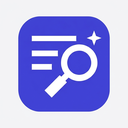
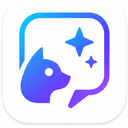
feat: 优化icon

diff --git a/content.css b/content.css
@@ -7,8 +7,8 @@
   display: inline-flex !important;
   align-items: center !important;
   justify-content: center !important;
-  gap: 6px !important;
-  padding: 5px 12px !important;
+  gap: 0 !important;
+  padding: 8px !important;
   
   /* Reset styles to isolate from host website's pollution */
   margin: 0 !important;
@@ -21,19 +21,16 @@
   cursor: pointer !important;
   user-select: none !important;
   
-  /* Glassmorphism Dark Theme Styling */
-  color: #f8fafc !important; /* slate-50 */
-  background: rgba(15, 23, 42, 0.85) !important; /* slate-900 with opacity */
-  backdrop-filter: blur(12px) !important;
-  -webkit-backdrop-filter: blur(12px) !important;
-  border: 1px solid rgba(255, 255, 255, 0.12) !important;
-  border-radius: 9999px !important; /* Pill shape */
+  /* Clean White Theme Styling */
+  color: #4f46e5 !important; /* indigo-600 */
+  background: #ffffff !important;
+  border: 1px solid rgba(79, 70, 229, 0.15) !important;
+  border-radius: 10px !important;
   
-  /* Box Shadow & Glow */
-  box-shadow: 
-    0 4px 16px -2px rgba(15, 23, 42, 0.3),
-    0 0 0 1px rgba(99, 102, 241, 0.1), /* Indigo accent shadow */
-    0 0 12px 1px rgba(99, 102, 241, 0.15) !important;
+  /* Box Shadow */
+  box-shadow:
+    0 2px 8px rgba(0, 0, 0, 0.08),
+    0 0 0 1px rgba(79, 70, 229, 0.06) !important;
   
   /* Smooth transitions */
   transition: 
@@ -48,37 +45,36 @@
 
 /* Hover effects */
 #contextlens-floating-btn:hover {
-  background: rgba(30, 41, 59, 0.95) !important; /* slate-800 with opacity */
-  border-color: rgba(99, 102, 241, 0.6) !important; /* Glow border */
-  color: #a5b4fc !important; /* indigo-300 */
-  transform: scale(1.06) translateY(-1px) !important;
-  box-shadow: 
-    0 6px 20px -2px rgba(15, 23, 42, 0.4),
-    0 0 0 1px rgba(99, 102, 241, 0.2),
-    0 0 16px 3px rgba(99, 102, 241, 0.3) !important; /* Stronger glow on hover */
+  background: #ffffff !important;
+  border-color: rgba(79, 70, 229, 0.3) !important;
+  color: #4338ca !important; /* indigo-700 */
+  transform: scale(1.08) translateY(-1px) !important;
+  box-shadow:
+    0 4px 12px rgba(79, 70, 229, 0.15),
+    0 0 0 1px rgba(79, 70, 229, 0.1) !important;
 }
 
 /* Clicking effect */
 #contextlens-floating-btn:active,
 #contextlens-floating-btn.contextlens-clicked {
-  transform: scale(0.95) translateY(0) !important;
-  background: rgba(15, 23, 42, 0.95) !important;
-  box-shadow: 0 2px 8px -2px rgba(15, 23, 42, 0.3) !important;
+  transform: scale(0.92) translateY(0) !important;
+  background: #ffffff !important;
+  box-shadow: 0 1px 4px rgba(0, 0, 0, 0.06) !important;
 }
 
 /* Icon style adjustments */
-#contextlens-floating-btn svg {
+#contextlens-floating-btn svg,
+#contextlens-floating-btn img {
   display: block !important;
   flex-shrink: 0 !important;
   margin: 0 !important;
   padding: 0 !important;
-  color: #818cf8 !important; /* Indigo icon default */
-  transition: color 0.2s ease !important;
+  transition: transform 0.2s ease !important;
 }
 
-#contextlens-floating-btn:hover svg {
-  color: #6366f1 !important; /* Vibrant indigo on hover */
-  animation: contextlens-spin 4s linear infinite;
+#contextlens-floating-btn:hover svg,
+#contextlens-floating-btn:hover img {
+  transform: scale(1.1) !important;
 }
 
 /* Hidden state with transitions */

diff --git a/content.js b/content.js
@@ -292,22 +292,7 @@ function createFloatingButton() {
   
   // High-tech lens SVG icon
   floatBtn.innerHTML = `
-    <svg width="18" height="18" viewBox="0 0 24 24" fill="none" xmlns="http://www.w3.org/2000/svg">
-      <!-- Context Text Lines (High-tech scanning target) -->
-      <path d="M4 6h10" stroke="currentColor" stroke-width="2" stroke-linecap="round" opacity="0.4"/>
-      <path d="M4 11h6" stroke="currentColor" stroke-width="2" stroke-linecap="round" opacity="0.4"/>
-      <path d="M4 16h10" stroke="currentColor" stroke-width="2" stroke-linecap="round" opacity="0.4"/>
-      <path d="M4 21h6" stroke="currentColor" stroke-width="2" stroke-linecap="round" opacity="0.4"/>
-      
-      <!-- AI Lens (Concentric scanning circles and handle) -->
-      <circle cx="13" cy="14" r="5" stroke="currentColor" stroke-width="2"/>
-      <circle cx="13" cy="14" r="2" fill="currentColor" opacity="0.3"/>
-      <path d="M16.5 17.5l3.5 3.5" stroke="currentColor" stroke-width="2" stroke-linecap="round"/>
-      
-      <!-- AI Sparkle Star -->
-      <path d="M19 2c0 1.6 1.4 3 3 3c-1.6 0-3 1.4-3 3c0-1.6-1.4-3-3-3c1.6 0 3-1.4 3-3z" fill="currentColor"/>
-    </svg>
-    <span>探索</span>
+    <img src="${chrome.runtime.getURL('icons/icon-floating.png')}" style="width: 20px; height: 20px; pointer-events: none; border-radius: 4px;" alt="ContextLens" />
   `;
 
   floatBtn.addEventListener("click", handleButtonClick);

diff --git a/sidepanel/sidepanel.html b/sidepanel/sidepanel.html
@@ -11,21 +11,6 @@
     <!-- Header -->
     <header class="app-header">
       <div class="logo-area">
-        <svg class="logo-icon" width="20" height="20" viewBox="0 0 24 24" fill="none" xmlns="http://www.w3.org/2000/svg">
-          <!-- Context Text Lines -->
-          <path d="M4 6h10" stroke="currentColor" stroke-width="2" stroke-linecap="round" opacity="0.4"/>
-          <path d="M4 11h6" stroke="currentColor" stroke-width="2" stroke-linecap="round" opacity="0.4"/>
-          <path d="M4 16h10" stroke="currentColor" stroke-width="2" stroke-linecap="round" opacity="0.4"/>
-          <path d="M4 21h6" stroke="currentColor" stroke-width="2" stroke-linecap="round" opacity="0.4"/>
-          
-          <!-- AI Lens -->
-          <circle cx="13" cy="14" r="5" stroke="currentColor" stroke-width="2"/>
-          <circle cx="13" cy="14" r="2" fill="currentColor" class="pulsing-core" opacity="0.4"/>
-          <path d="M16.5 17.5l3.5 3.5" stroke="currentColor" stroke-width="2" stroke-linecap="round"/>
-          
-          <!-- AI Sparkle Star -->
-          <path d="M19 2c0 1.6 1.4 3 3 3c-1.6 0-3 1.4-3 3c0-1.6-1.4-3-3-3c1.6 0 3-1.4 3-3z" fill="currentColor"/>
-        </svg>
         <span class="logo-text">Context<span class="glow-accent">Lens</span></span>
       </div>
       <button id="settings-toggle" class="header-btn" title="AI 服务设置">

diff --git a/sidepanel/sidepanel.js b/sidepanel/sidepanel.js
@@ -2111,6 +2111,9 @@ async function triggerAIStreamResponse(promptText, messageTabId) {
                 if (!activeBubble) activeBubble = bubbleContent;
                 if (activeBubble) {
                   activeBubble.innerHTML = formatMarkdown(streamedText);
+                  activeBubble.querySelectorAll(".think-block[open] .think-content").forEach(el => {
+                    el.scrollTop = el.scrollHeight;
+                  });
                 }
               }
             }
@@ -2629,6 +2632,13 @@ function renderAssistantMessage(bubbleEl, text, systemLogsText, isComplete, agen
   // Mark the bubble as agent-layout so CSS strips the default bubble background
   bubbleEl.classList.add("agent-bubble");
   bubbleEl.innerHTML = html;
+
+  // Auto-scroll internal scrollable containers to bottom
+  const logBody = bubbleEl.querySelector(".agent-log-body");
+  if (logBody) logBody.scrollTop = logBody.scrollHeight;
+  bubbleEl.querySelectorAll(".think-block[open] .think-content").forEach(el => {
+    el.scrollTop = el.scrollHeight;
+  });
 
   // Bind toggle for execution log card
   const headerEl = bubbleEl.querySelector(".agent-status-header");

diff --git a/sidepanel/sidepanel.css b/sidepanel/sidepanel.css
@@ -73,15 +73,6 @@ body.dark-theme {
   color: var(--text-primary);
 }
 
-.logo-icon {
-  color: var(--accent-indigo);
-}
-
-.logo-icon .pulsing-core {
-  animation: pulse-core 2s ease-in-out infinite;
-  color: var(--accent-cyan);
-}
-
 .logo-text {
   font-family: var(--font-display);
   font-size: 18px;
@@ -822,6 +813,8 @@ body.dark-theme {
   border-top: 1px solid rgba(99, 102, 241, 0.1);
   white-space: pre-wrap;
   word-break: break-word;
+  max-height: 300px;
+  overflow-y: auto;
 }
 
 .message-sender {

diff --git a/process_icons2.py b/process_icons2.py
@@ -1,0 +1,132 @@
+#!/usr/bin/env python3
+"""
+Split the combined icon image into:
+  - Left half  → main extension icon (icon-16.png, icon-48.png, icon-128.png)
+  - Right half → floating/right-click icon (icon-floating.png, icon-floating-16.png)
+
+The image is 1024x1024 with two icons side-by-side on a white background.
+We use a content-aware crop: find the actual bounding box of non-white pixels
+for each half independently.
+"""
+
+import sys
+from PIL import Image, ImageChops, ImageFilter
+
+SRC = sys.argv[1]
+OUT_DIR = sys.argv[2]
+
+def is_near_white(pixel, threshold=240):
+    """Return True if pixel is near-white (background)."""
+    r, g, b, a = pixel if len(pixel) == 4 else (*pixel, 255)
+    return r > threshold and g > threshold and b > threshold and a > 200
+
+def crop_content(img):
+    """Crop to the tight bounding box of non-white, non-transparent content."""
+    rgba = img.convert("RGBA")
+    data = rgba.getdata()
+    w, h = rgba.size
+    
+    min_x, min_y = w, h
+    max_x, max_y = 0, 0
+    
+    for y in range(h):
+        for x in range(w):
+            px = data[y * w + x]
+            if not is_near_white(px):
+                min_x = min(min_x, x)
+                min_y = min(min_y, y)
+                max_x = max(max_x, x)
+                max_y = max(max_y, y)
+    
+    if max_x <= min_x or max_y <= min_y:
+        return img  # nothing found, return as-is
+    
+    # Add a small padding around the content
+    padding = 8
+    min_x = max(0, min_x - padding)
+    min_y = max(0, min_y - padding)
+    max_x = min(w - 1, max_x + padding)
+    max_y = min(h - 1, max_y + padding)
+    
+    return img.crop((min_x, min_y, max_x + 1, max_y + 1))
+
+def make_square_white_bg(img, size):
+    """Paste the icon (cropped to content) onto a square white background, then resize."""
+    # First crop to content
+    content = crop_content(img)
+    cw, ch = content.size
+    
+    # Make square canvas with white background
+    side = max(cw, ch)
+    canvas = Image.new("RGBA", (side, side), (255, 255, 255, 255))
+    offset_x = (side - cw) // 2
+    offset_y = (side - ch) // 2
+    canvas.paste(content.convert("RGBA"), (offset_x, offset_y), content.convert("RGBA"))
+    
+    # Resize to target
+    resized = canvas.resize((size, size), Image.Resampling.LANCZOS)
+    return resized.convert("RGBA")
+
+def make_square_transparent_bg(img, size):
+    """Paste the icon onto a square transparent background, then resize."""
+    content = crop_content(img)
+    cw, ch = content.size
+    
+    side = max(cw, ch)
+    canvas = Image.new("RGBA", (side, side), (0, 0, 0, 0))
+    offset_x = (side - cw) // 2
+    offset_y = (side - ch) // 2
+    
+    rgba_content = content.convert("RGBA")
+    # Remove near-white background from content
+    data = rgba_content.getdata()
+    new_data = []
+    for px in data:
+        r, g, b, a = px
+        if r > 240 and g > 240 and b > 240:
+            new_data.append((255, 255, 255, 0))
+        else:
+            new_data.append(px)
+    rgba_content.putdata(new_data)
+    
+    canvas.paste(rgba_content, (offset_x, offset_y), rgba_content)
+    resized = canvas.resize((size, size), Image.Resampling.LANCZOS)
+    return resized
+
+
+# ---- Main ----
+img = Image.open(SRC).convert("RGBA")
+width, height = img.size
+
+print(f"Image size: {width}x{height}")
+
+# The two icons are side by side. 
+# Looking at the image: left icon (main) is a rounded square with dog+sparkles,
+# right icon (floating) is a pill/bubble shape.
+# The split point is roughly at the midpoint but let's use 50% as split.
+split_x = width // 2
+
+left_half = img.crop((0, 0, split_x, height))
+right_half = img.crop((split_x, 0, width, height))
+
+print("Generating main extension icons from left half...")
+# Main icon: white background for standard Chrome extension icons
+for size in [16, 48, 128]:
+    result = make_square_white_bg(left_half, size)
+    path = f"{OUT_DIR}/icon-{size}.png"
+    result.save(path)
+    print(f"  Saved: {path}")
+
+print("Generating floating/right-click icons from right half...")
+# Floating icon: transparent bg for use on web pages
+result_128 = make_square_transparent_bg(right_half, 128)
+path = f"{OUT_DIR}/icon-floating.png"
+result_128.save(path)
+print(f"  Saved: {path}")
+
+result_16 = make_square_transparent_bg(right_half, 16)
+path = f"{OUT_DIR}/icon-floating-16.png"
+result_16.save(path)
+print(f"  Saved: {path}")
+
+print("Done!")

diff --git a/process_icons.py b/process_icons.py
@@ -1,0 +1,74 @@
+import sys
+try:
+    from PIL import Image, ImageChops
+except ImportError:
+    import subprocess
+    subprocess.check_call([sys.executable, '-m', 'pip', 'install', 'Pillow'])
+    from PIL import Image, ImageChops
+
+def trim(im):
+    bg = Image.new(im.mode, im.size, im.getpixel((0,0)))
+    diff = ImageChops.difference(im, bg)
+    diff = ImageChops.add(diff, diff, 2.0, -100)
+    bbox = diff.getbbox()
+    if bbox:
+        return im.crop(bbox)
+    return im
+
+def make_square(im, min_size=256, fill_color=(255, 255, 255, 0)):
+    x, y = im.size
+    size = max(min_size, x, y)
+    new_im = Image.new('RGBA', (size, size), fill_color)
+    new_im.paste(im, (int((size - x) / 2), int((size - y) / 2)))
+    return new_im
+
+def process_image(path, out_dir):
+    im = Image.open(path).convert("RGBA")
+    width, height = im.size
+    
+    # Left half
+    left_half = im.crop((0, 0, width // 2, height))
+    # Right half
+    right_half = im.crop((width // 2, 0, width, height))
+    
+    # Trim white borders
+    # Assuming top-left pixel is background color (white)
+    
+    # Convert white to transparent for better icons
+    def white_to_transp(img):
+        datas = img.getdata()
+        newData = []
+        for item in datas:
+            # Check if it's white or very close to white
+            if item[0] > 240 and item[1] > 240 and item[2] > 240:
+                newData.append((255, 255, 255, 0))
+            else:
+                newData.append(item)
+        img.putdata(newData)
+        return img
+    
+    left_half = white_to_transp(left_half)
+    right_half = white_to_transp(right_half)
+    
+    left_trimmed = trim(left_half)
+    right_trimmed = trim(right_half)
+    
+    left_square = make_square(left_trimmed)
+    right_square = make_square(right_trimmed)
+    
+    # Main Icon (Left)
+    for size in [16, 48, 128]:
+        resized = left_square.resize((size, size), Image.Resampling.LANCZOS)
+        resized.save(f"{out_dir}/icon-{size}.png")
+        
+    # Floating/Right-click Icon (Right)
+    # Save a generic floating icon and replace content.js svg with it
+    right_square.resize((128, 128), Image.Resampling.LANCZOS).save(f"{out_dir}/icon-floating.png")
+    
+    # Also save the 16x16 one if needed for context menu, though context menu usually uses the 16x16 main icon.
+    # The user said: "右边的这个是：选中文本后 浮窗里的icon以及右键的功能icon" (right one is for floating window and right-click function icon)
+    # So we should also save a 16x16 version of the right icon for the right-click menu.
+    right_square.resize((16, 16), Image.Resampling.LANCZOS).save(f"{out_dir}/icon-floating-16.png")
+
+if __name__ == "__main__":
+    process_image(sys.argv[1], sys.argv[2])
